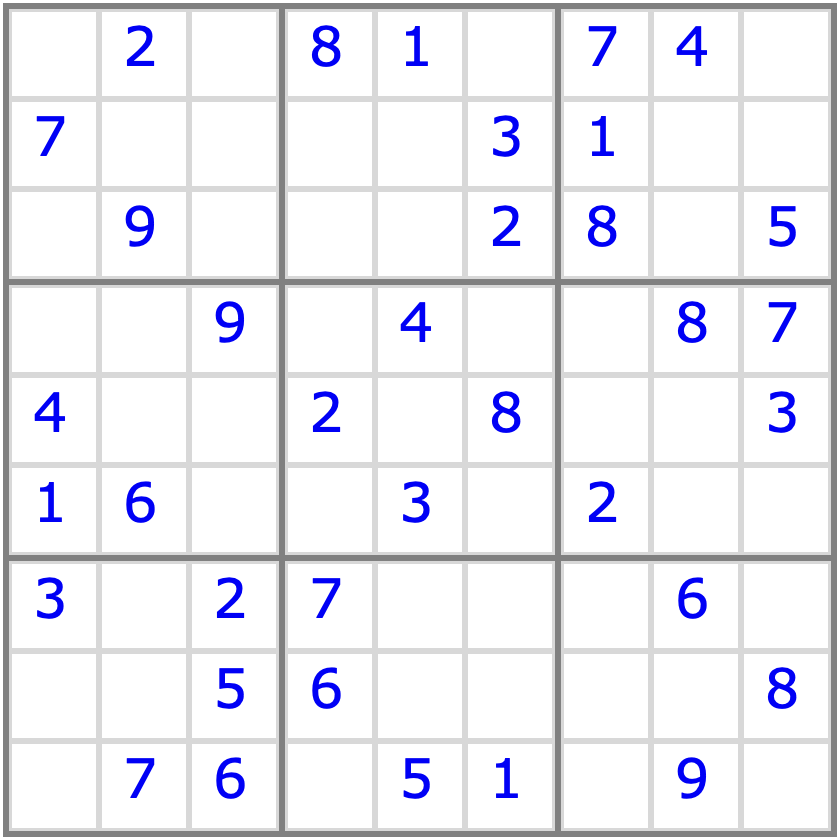
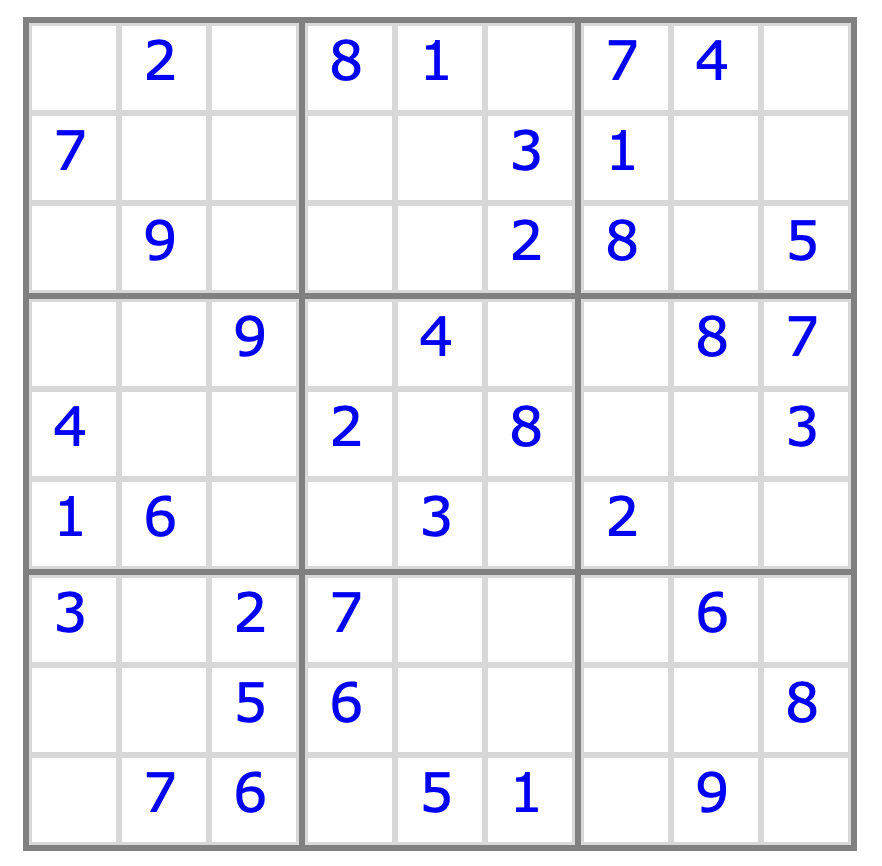
get rid of rounded edges?

Changed region(s): [[0.0, 0.0, 1.0, 1.0]]

diff --git a/tutorials/sudoku/puzzle.html b/tutorials/sudoku/puzzle.html
@@ -20,7 +20,7 @@
 
 
        <center>
-               <table bgcolor="#D8D8D8" class="table-class" cellpadding="0" cellspacing="0" >
+               <table bgcolor="#D8D8D8" style="border:1px solid gray" cellpadding="0" cellspacing="0" >
                    <tbody>
                        <tr>
                            <td>
